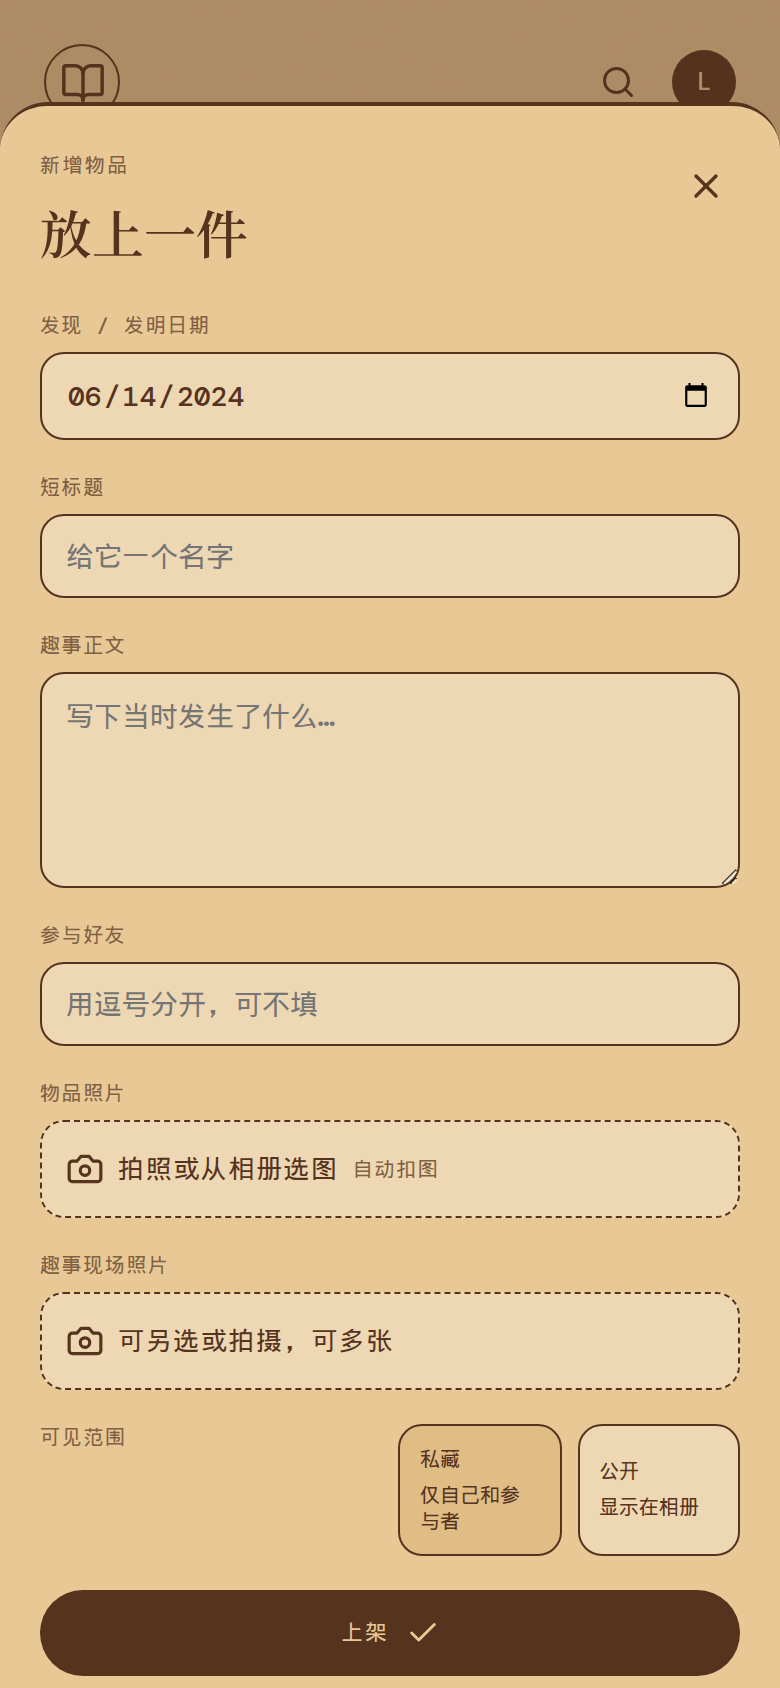
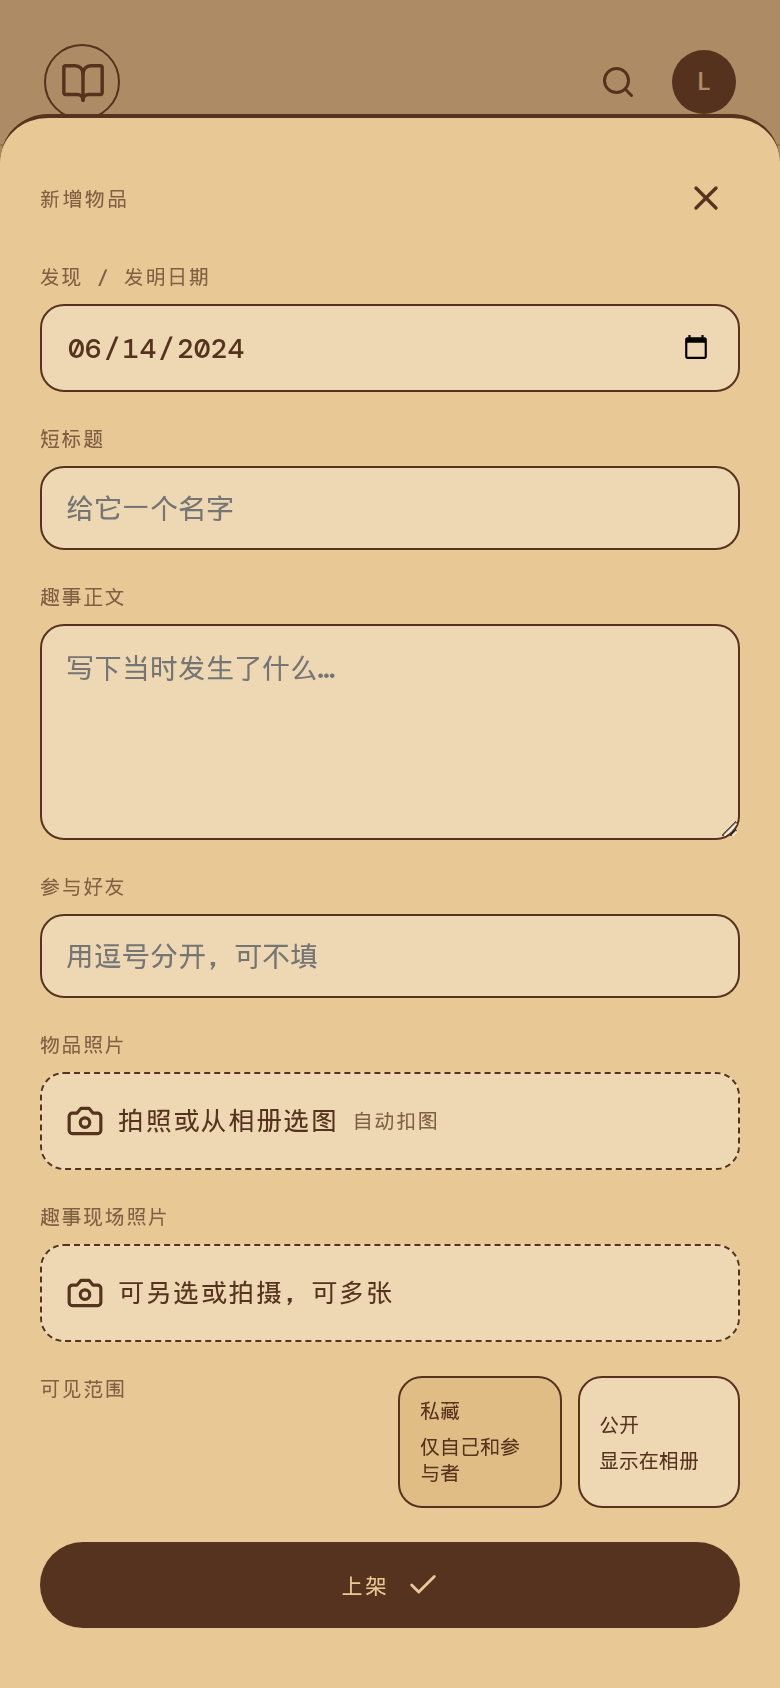
fix: drop the add-sheet title 放上一件
Keep the small 新增物品 label, form fields, uploads, visibility, and 上架 action. Reshoot the add sheet, shelf home, and solid oval bottom nav.

diff --git a/app/page.tsx b/app/page.tsx
@@ -250,5 +250,5 @@ function AddStory({ onClose, onAdd, notify }: { onClose: () => void; onAdd: (ite
     notify(cutoutStatus === "ready" ? "透明物品已上架" : "已用居中裁切上架");
   };
 
-  return <div className="modal-backdrop" onClick={onClose}><section className="add-sheet" onClick={e => e.stopPropagation()}><div className="sheet-head"><div><p className="eyebrow">新增物品</p><h2>放上一件</h2></div><button className="icon-button" onClick={onClose} aria-label="关闭"><X size={20}/></button></div><form onSubmit={submit}><label>发现 / 发明日期<input type="date" value={date} onChange={(event) => setDate(event.target.value)} required/></label><label>短标题<input value={title} onChange={(event) => setTitle(event.target.value)} placeholder="给它一个名字" required/></label><label>趣事正文<textarea value={content} onChange={(event) => setContent(event.target.value)} placeholder="写下当时发生了什么…" rows={4} required/></label><label>参与好友<input value={people} onChange={(event) => setPeople(event.target.value)} placeholder="用逗号分开，可不填"/></label><label>物品照片<span className="upload-box"><Camera size={19}/> 拍照或从相册选图 <small>自动扣图</small><input type="file" accept="image/*" capture="environment" onChange={(event) => { const file = event.target.files?.[0]; if (file) void processImage(file); }} required/></span></label>{imageUrl && <div className="cutout-preview"><img src={imageUrl} alt="待上架物品预览"/><span className={`cutout-status ${cutoutStatus}`}>{cutoutStatus === "processing" ? "正在扣图…" : cutoutStatus === "ready" ? "透明 PNG 已生成" : cutoutStatus === "fallback" ? "自动扣图未完成，已用居中裁切" : "等待处理"}</span></div>}<label>趣事现场照片 <span className="upload-box"><Camera size={19}/> 可另选或拍摄，可多张<input type="file" accept="image/*" capture="environment" multiple onChange={(event) => chooseStoryImages(event.target.files)}/></span></label>{storyImages.length > 0 && <div className="story-image-preview" aria-label={`已选 ${storyImages.length} 张现场照片`}>{storyImages.map((image, index) => <img key={`${image}-${index}`} src={image} alt={`现场照片 ${index + 1}`}/>)}</div>}{error && <p className="form-error" role="alert">{error}</p>}<div className="visibility"><span>可见范围</span><div><button type="button" className={visibility === "PRIVATE" ? "selected" : ""} onClick={() => setVisibility("PRIVATE")}>私藏<small>仅自己和参与者</small></button><button type="button" className={visibility === "PUBLIC" ? "selected" : ""} onClick={() => setVisibility("PUBLIC")}>公开<small>显示在相册</small></button></div></div><button className="primary-button" type="submit" disabled={cutoutStatus === "processing"}>上架 <Check size={17}/></button></form></section></div>;
+  return <div className="modal-backdrop" onClick={onClose}><section className="add-sheet" onClick={e => e.stopPropagation()}><div className="sheet-head"><p className="eyebrow">新增物品</p><button className="icon-button" onClick={onClose} aria-label="关闭"><X size={20}/></button></div><form onSubmit={submit}><label>发现 / 发明日期<input type="date" value={date} onChange={(event) => setDate(event.target.value)} required/></label><label>短标题<input value={title} onChange={(event) => setTitle(event.target.value)} placeholder="给它一个名字" required/></label><label>趣事正文<textarea value={content} onChange={(event) => setContent(event.target.value)} placeholder="写下当时发生了什么…" rows={4} required/></label><label>参与好友<input value={people} onChange={(event) => setPeople(event.target.value)} placeholder="用逗号分开，可不填"/></label><label>物品照片<span className="upload-box"><Camera size={19}/> 拍照或从相册选图 <small>自动扣图</small><input type="file" accept="image/*" capture="environment" onChange={(event) => { const file = event.target.files?.[0]; if (file) void processImage(file); }} required/></span></label>{imageUrl && <div className="cutout-preview"><img src={imageUrl} alt="待上架物品预览"/><span className={`cutout-status ${cutoutStatus}`}>{cutoutStatus === "processing" ? "正在扣图…" : cutoutStatus === "ready" ? "透明 PNG 已生成" : cutoutStatus === "fallback" ? "自动扣图未完成，已用居中裁切" : "等待处理"}</span></div>}<label>趣事现场照片 <span className="upload-box"><Camera size={19}/> 可另选或拍摄，可多张<input type="file" accept="image/*" capture="environment" multiple onChange={(event) => chooseStoryImages(event.target.files)}/></span></label>{storyImages.length > 0 && <div className="story-image-preview" aria-label={`已选 ${storyImages.length} 张现场照片`}>{storyImages.map((image, index) => <img key={`${image}-${index}`} src={image} alt={`现场照片 ${index + 1}`}/>)}</div>}{error && <p className="form-error" role="alert">{error}</p>}<div className="visibility"><span>可见范围</span><div><button type="button" className={visibility === "PRIVATE" ? "selected" : ""} onClick={() => setVisibility("PRIVATE")}>私藏<small>仅自己和参与者</small></button><button type="button" className={visibility === "PUBLIC" ? "selected" : ""} onClick={() => setVisibility("PUBLIC")}>公开<small>显示在相册</small></button></div></div><button className="primary-button" type="submit" disabled={cutoutStatus === "processing"}>上架 <Check size={17}/></button></form></section></div>;
 }

diff --git a/app/globals.css b/app/globals.css
@@ -470,7 +470,8 @@ body{font-family:'DM Sans','Noto Sans SC',sans-serif}
   box-shadow:0 6px 16px #35291e33;
   transform:translateY(-15px);
 }
-.shelf-sentinel{height:1px;pointer-events:none}
+.sheet-head{align-items:center;margin-bottom:16px}
+.sheet-head .eyebrow{margin:0}
 .toast{bottom:108px}
 @media(min-width:721px){
   .bottom-nav,.shell .bottom-nav{bottom:22px}

diff --git a/design.md b/design.md
@@ -10,7 +10,7 @@
 2. **书图标 → 年表**：顶栏书图标打开按发现时间回看的年表。年表按日期展示记录，不使用「时间线」等禁词大标题；返回后回到原来的首页位置。
 3. **羊皮纸详情**：详情纵向居中，顶端展示 `objectImage`，中段展示日期、短标题和正文 `content`，下方展示一张或多张现场照片 `storyImages`。文字与配图区域可继续向下滚动；只在顶栏左侧保留返回图标。
 4. **相册**：公开趣事组成两列、自适应高度的 masonry 照片帖，只使用 `storyImages`，不展示扣物 `objectImage`。帖子的图片上方、简短文字下方保持 kraft 卡片样式。
-5. **+ 新增**：新增流程依次完成：选择或拍摄物图并自动扣图得到 `objectImage`；另选或拍摄一张或多张现场照片作为 `storyImages`；填写日期、短标题、正文 `content`、参与好友及公开/私藏；提交后同时上架物品并生成关联 Story，公开 Story 进入相册。
+5. **+ 新增**：新增流程依次完成：选择或拍摄物图并自动扣图得到 `objectImage`；另选或拍摄一张或多张现场照片作为 `storyImages`；填写日期、短标题、正文 `content`、参与好友及公开/私藏；提交后同时上架物品并生成关联 Story，公开 Story 进入相册。新增面板不使用「放上一件」这类大标题；可保留「新增物品」一类小标签，以及表单、上传、可见范围和「上架」按钮。
 6. **朋友**：提供好友列表与邀请。页面以列表和操作为主，弱化或图标化大标题，保持少字风格。
 7. **我的**：提供个人资料与退出操作。页面保持少字，不堆叠大标题。
 
